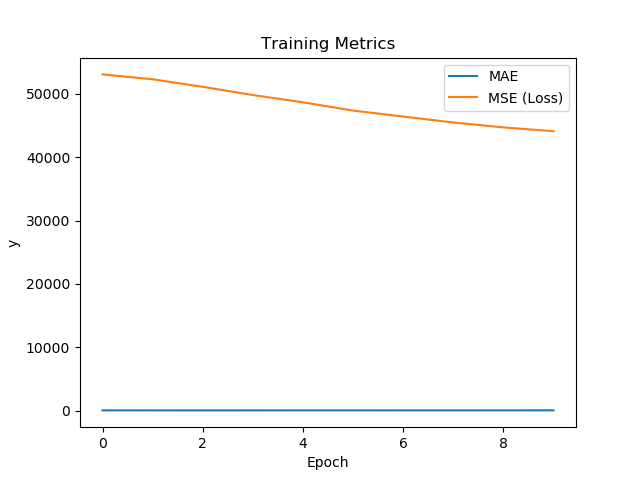
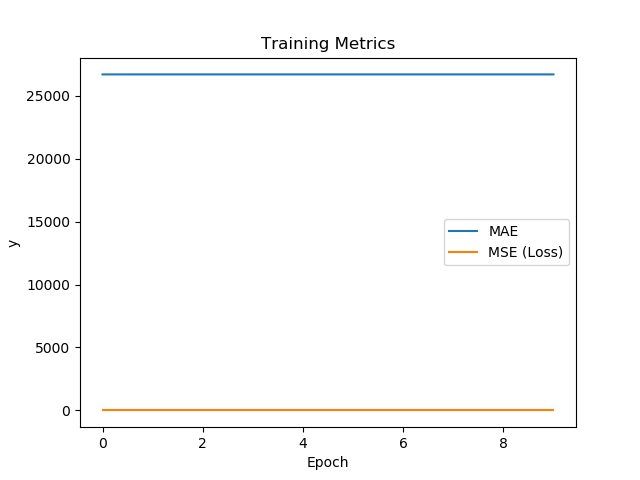
Changes hyperparameters for testing

diff --git a/seq2point_train.py b/seq2point_train.py
@@ -19,9 +19,9 @@ def train_model():
     window_offset = int((0.5 * 601 ) - 1)
 
     # Generator function to produce batches.
-    training_chunker = InputChunkSlider(file_name=training_directory, chunk_size=SIZE_OF_CHUNK, batch_size=DEFAULT_BATCH_SIZE, crop=100000, shuffle=False, offset=window_offset, header=0, ram_threshold=5*10**5)
+    training_chunker = InputChunkSlider(file_name=training_directory, chunk_size=SIZE_OF_CHUNK, batch_size=DEFAULT_BATCH_SIZE, crop=15000, shuffle=False, offset=window_offset, header=0, ram_threshold=5*10**5)
 
-    validation_chunker = InputChunkSlider(file_name=validation_directory, chunk_size=SIZE_OF_CHUNK, batch_size=DEFAULT_BATCH_SIZE, crop=100000, shuffle=False, offset=window_offset, header=0, ram_threshold=5*10**5)
+    validation_chunker = InputChunkSlider(file_name=validation_directory, chunk_size=SIZE_OF_CHUNK, batch_size=DEFAULT_BATCH_SIZE, crop=6000, shuffle=False, offset=window_offset, header=0, ram_threshold=5*10**5)
 
     # Calculate the optimum steps per epoch.
     training_chunker.check_if_chunking()
@@ -30,15 +30,16 @@ def train_model():
     # Compile the model with an Adam optimiser. Initialise early stopping callback that stops only 
     # if there's no improvement 2 epochs later.
     model = create_model()
-    model.compile(Adam(learning_rate=0.001, beta_1=0.9, beta_2=0.999), loss="mean_squared_logarithmic_error", metrics=["mse", "msle"]) 
+    model.compile(Adam(learning_rate=0.001, beta_1=0.9, beta_2=0.999), loss="mean_squared_error", metrics=["mse", "msle"]) 
     early_stopping = EarlyStopping(monitor="loss", min_delta=0, patience=2, verbose=2, mode="auto")
 
     # Train the model with the generator function and early stopping callback.
+
+        #     validation_data = validation_chunker.load_dataset(),
+        # validation_steps=100,
+        # validation_freq=2,
     training_history = model.fit_generator(training_chunker.load_dataset(),
         steps_per_epoch=steps_per_training_epoch,
-        validation_data = validation_chunker.load_dataset(),
-        validation_steps=100,
-        validation_freq=2,
         epochs=10,
         verbose=2, 
         callbacks=[])

diff --git a/seq2point_test.py b/seq2point_test.py
@@ -41,13 +41,15 @@ def test_model():
     offset = int(0.5 * 601 - 1)
 
     # Get the (cropped) testing dataset.
-    CROP = 1000000
+    CROP = 500000
     DEFAULT_BATCH_SIZE = 1000
     test_input, test_target = load_dataset(test_file_name, CROP)
 
     # Initialise the model and testing generator.
     model = create_model()
-    model = load_model(model, "./kettle/saved_model/kettle_model")
+
+    model = load_model(model, "./kettle/kettle_model")
+
     test_generator = TestingChunkSlider(number_of_windows=100, inputs=test_input, offset=offset)
 
     # Calculate the optimum steps per epoch.
@@ -58,11 +60,11 @@ def test_model():
 
     testing_history = ((testing_history * kettle_params["std"]) + kettle_params["mean"])
 
-    test_target = ((test_target * kettle_params["std"]) + kettle_params["mean"])
+    #test_target = ((test_target * kettle_params["std"]) + kettle_params["mean"])
 
     # Can't have negative energy readings - set any results below 0 to 0.
-    test_target[test_target < 0] = 0
-    testing_history[testing_history < 0] = 0
+    #test_target[test_target < 0] = 0
+    #testing_history[testing_history < 0] = 0
 
     # Plot testing outcomes against ground truth.
     plt.figure(1)

diff --git a/model_structure.py b/model_structure.py
@@ -27,9 +27,10 @@ def save_model(model, path):
 
 def load_model(model, path):
     try:
-        print("PATH: ", path)
         model.load_weights(path + "_weights.h5")
+        num_of_weights = model.count_params()
+        print("Loaded model with ", str(num_of_weights), " weights")
         return model
     except:
         print("No saved model was found. (Takes the form of appliancename_weights.h5)")
-        return None
+        return
